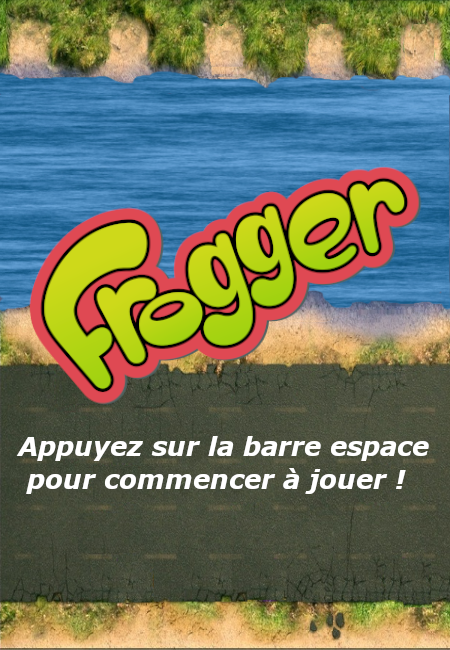
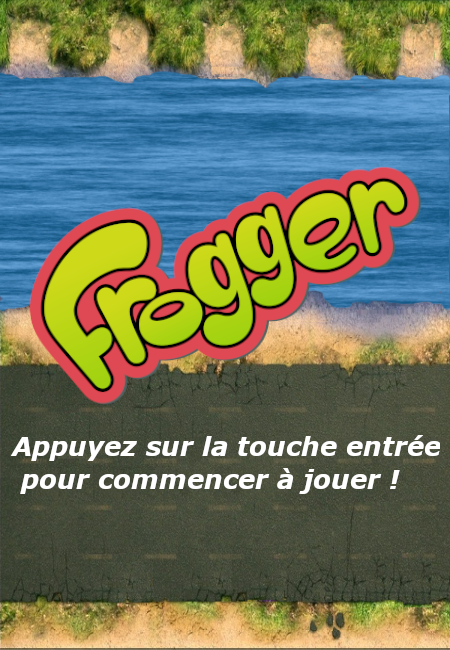
presque fini

Changed region(s): [[0.0311, 0.6462, 0.9956, 0.7692]]

diff --git a/core/src/model/Frogger.java b/core/src/model/Frogger.java
@@ -14,6 +14,7 @@ public class Frogger extends DynamicGameElement {
 		this.vie = vie;
 		this.score=score;
 		lesProjectiles = new Array<Projectile>();
+		this.setDirection(180);
 	}
 
 	public int getVie() {
@@ -36,7 +37,30 @@ public class Frogger extends DynamicGameElement {
 		return lesProjectiles;
 	}
 	
-	
+	public boolean isNextProjPossible() {
+		if (lesProjectiles.size == 0) // pas de projectile
+			return true;
+		else {
+			Projectile last = lesProjectiles.get(lesProjectiles.size - 1); // on prend le dernier projectile tire
+			
+			if (direction != last.getDirection())
+				return true;
+			else {
+				switch(direction) {
+					case 180 : // vers le haut
+						return getY()+World.getInstance().getHeightProjectile()<last.getY();
+					case 0 : // vers le bas
+						return getY()-World.getInstance().getHeightProjectile()>last.getY();
+					case 90 : // vers la droite
+						return getX()+World.getInstance().getWidthProjectile()<last.getX();
+					case 270 : // vers la gauche
+						return getX()-World.getInstance().getWidthProjectile()>last.getX();
+					default:
+						return false;
+				}
+			}	
+		}
+	}
 	
 	
 }

diff --git a/core/src/model/Projectile.java b/core/src/model/Projectile.java
@@ -7,7 +7,25 @@ public class Projectile extends DynamicGameElement {
 	float initialPos;
     
 	public Projectile(Frogger frog) {
-		super(frog.getX(), frog.getY(), World.getInstance().getHeightProjectile(), World.getInstance().getWidthProjectile(), (float)0.1, frog.getDirection(), "projectile");
+		
+		super(  (float)(     (  frog.getX()+ (frog.getWidth())/2  ) - (World.getInstance().getWidthProjectile()/2)   ),
+				(float)(     (  frog.getY()+(frog.getHeight())/2 ) - (World.getInstance().getHeightProjectile()/2)  ),
+				World.getInstance().getHeightProjectile(),
+				World.getInstance().getWidthProjectile(),
+				(float)0.1,
+				frog.getDirection(),
+				"projectile");
+				
+		/*
+		super(  frog.getX(),
+				frog.getY(),
+				World.getInstance().getWidthProjectile(),
+				World.getInstance().getHeightProjectile(),
+				(float)0.1,
+				frog.getDirection(),
+				"projectile");
+				*/
+		
 		this.frog = frog;
 		distance = World.getInstance().getTirDistance();
 		nbTirs= World.getInstance().getNbTirs();

diff --git a/core/src/controller/ControllerFrogger.java b/core/src/controller/ControllerFrogger.java
@@ -191,7 +191,10 @@ public class ControllerFrogger {
 	    
 	    if (Gdx.input.isKeyPressed(Keys.SPACE)) {
 	    	if (World.getInstance().getFrog().getLesProjectiles().size < World.getInstance().getNbTirs()) {
-	    		World.getInstance().getFrog().getLesProjectiles().add(new Projectile(World.getInstance().getFrog()));
+	    		if (frog.isNextProjPossible()) {
+	    			World.getInstance().getFrog().getLesProjectiles().add(new Projectile(World.getInstance().getFrog()));
+	    		}
+	    			
 	    	}
 	    }
 	    for (Projectile proj : World.getInstance().getFrog().getLesProjectiles()) {
@@ -200,7 +203,6 @@ public class ControllerFrogger {
 	    	else
 	    		proj.majProjectile();
 	    }
-	    
 		
 		// ----------------- METHODE B : par un appui sur l’écran séparé en 4 zones -----------------
         if (Gdx.input.isTouched()) {

diff --git a/core/src/vue/Debug.java b/core/src/vue/Debug.java
@@ -6,6 +6,7 @@ import com.badlogic.gdx.graphics.glutils.ShapeRenderer.ShapeType;
 
 import model.GameElement;
 import model.GameElementLineaire;
+import model.Projectile;
 import model.Riviere;
 import model.Route;
 import model.Vehicule;
@@ -45,6 +46,9 @@ public class Debug {
 		for(Route route : World.getInstance().getLesRoutes()) {
 			for(Vehicule veh : route.getLesVehicules())
 				shapeRenderer.rect(veh.getX()*50, veh.getY()*50, veh.getWidth()*50, veh.getHeight()*50);
+		}
+		for(Projectile proj : World.getInstance().getFrog().getLesProjectiles()) {
+			shapeRenderer.rect(proj.getX()*50, proj.getY()*50, proj.getWidth()*50, proj.getHeight()*50);
 		}
 		shapeRenderer.end();
 	}

diff --git a/core/src/vue/GameOverScreen.java b/core/src/vue/GameOverScreen.java
@@ -34,9 +34,9 @@ public class GameOverScreen implements Screen {
 		Gdx.gl.glClearColor(1, 0, 0, 1);
 		Gdx.gl.glClear(GL20.GL_COLOR_BUFFER_BIT);
 		game.batch.begin();
-		game.batch.draw(TextureFactory.getInstance().getTextureFond(), 0, 0);
+		game.batch.draw(TextureFactory.getInstance().getTextureGameover(), 0, 0);
 		fontScore.draw(game.batch, strScore +  Integer.toString(score), 30, 120);
-		if (Gdx.input.isKeyPressed(Keys.ENTER)) {
+		if (Gdx.input.isKeyJustPressed(Keys.ENTER)) {
 			this.dispose();
 			World.getInstance().getFrog().setVie(World.getInstance().getVieBegin());
 			game.setScreen(new IntroScreen(game));

diff --git a/core/src/controller/WorldRenderer.java b/core/src/controller/WorldRenderer.java
@@ -138,8 +138,8 @@ public class WorldRenderer {
 		
 		for(Projectile proj : world.getFrog().getLesProjectiles()) {
 			s = new Sprite(TextureFactory.getInstance().getTexture(proj));
-			//s.setRotation(v.getDirection());
-			//s.setSize(mapper(proj.getWidth()), mapper(proj.getHeight()));
+			//s.setRotation(proj.getDirection());
+			s.setSize(mapper(proj.getWidth()), mapper(proj.getHeight()));
 			s.setPosition(mapper(proj.getX()), mapper(proj.getY()));
 			s.draw(batch);
 		}

diff --git a/core/src/vue/IntroScreen.java b/core/src/vue/IntroScreen.java
@@ -25,7 +25,7 @@ public class IntroScreen implements Screen {
 		Gdx.gl.glClear(GL20.GL_COLOR_BUFFER_BIT);
 		game.batch.begin();
 		game.batch.draw(TextureFactory.getInstance().getTextureIntro(), 0, 0);
-		if (Gdx.input.isKeyPressed(Keys.SPACE)) {
+		if (Gdx.input.isKeyJustPressed(Keys.ENTER)) {
 			this.dispose();
 			game.setScreen(new GameScreen(game));
 		}
